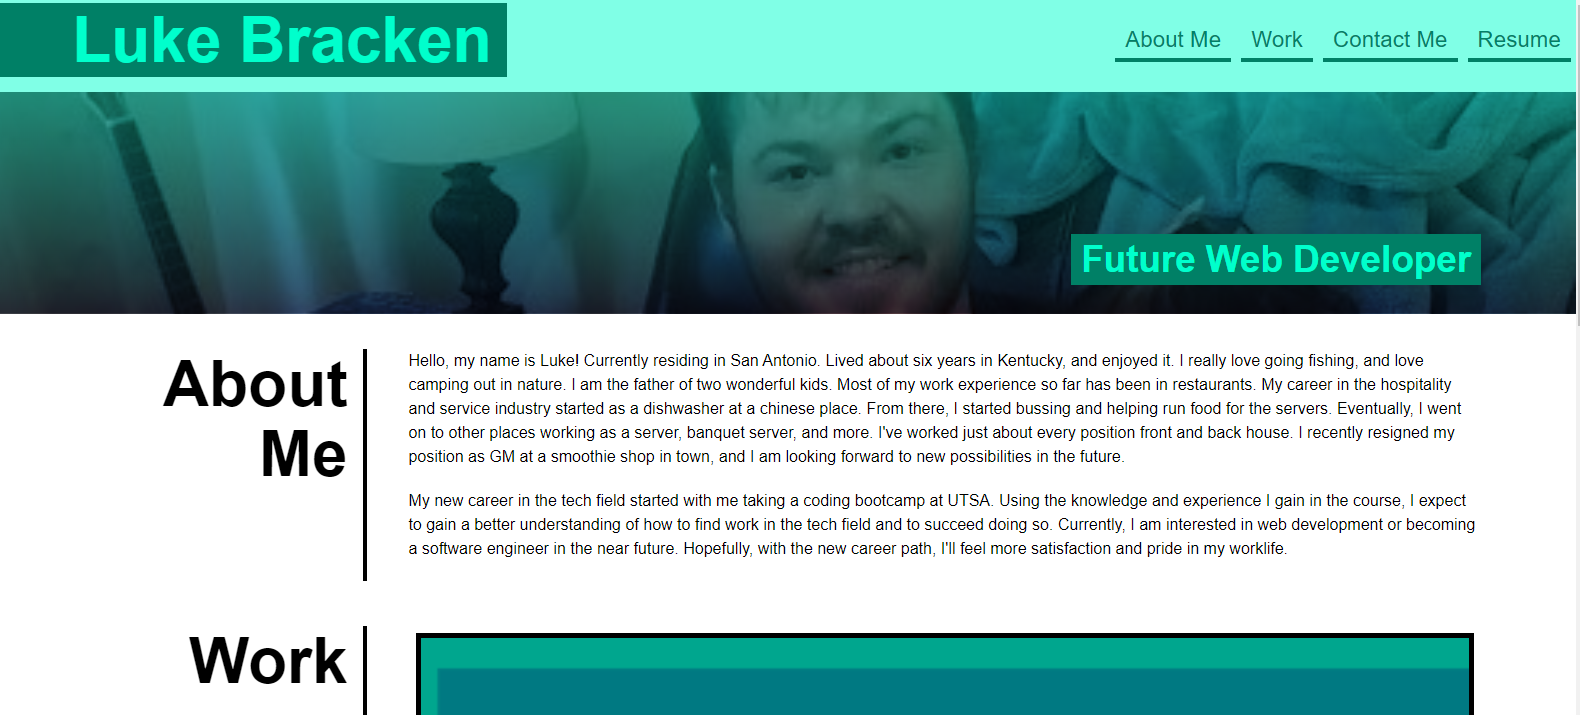
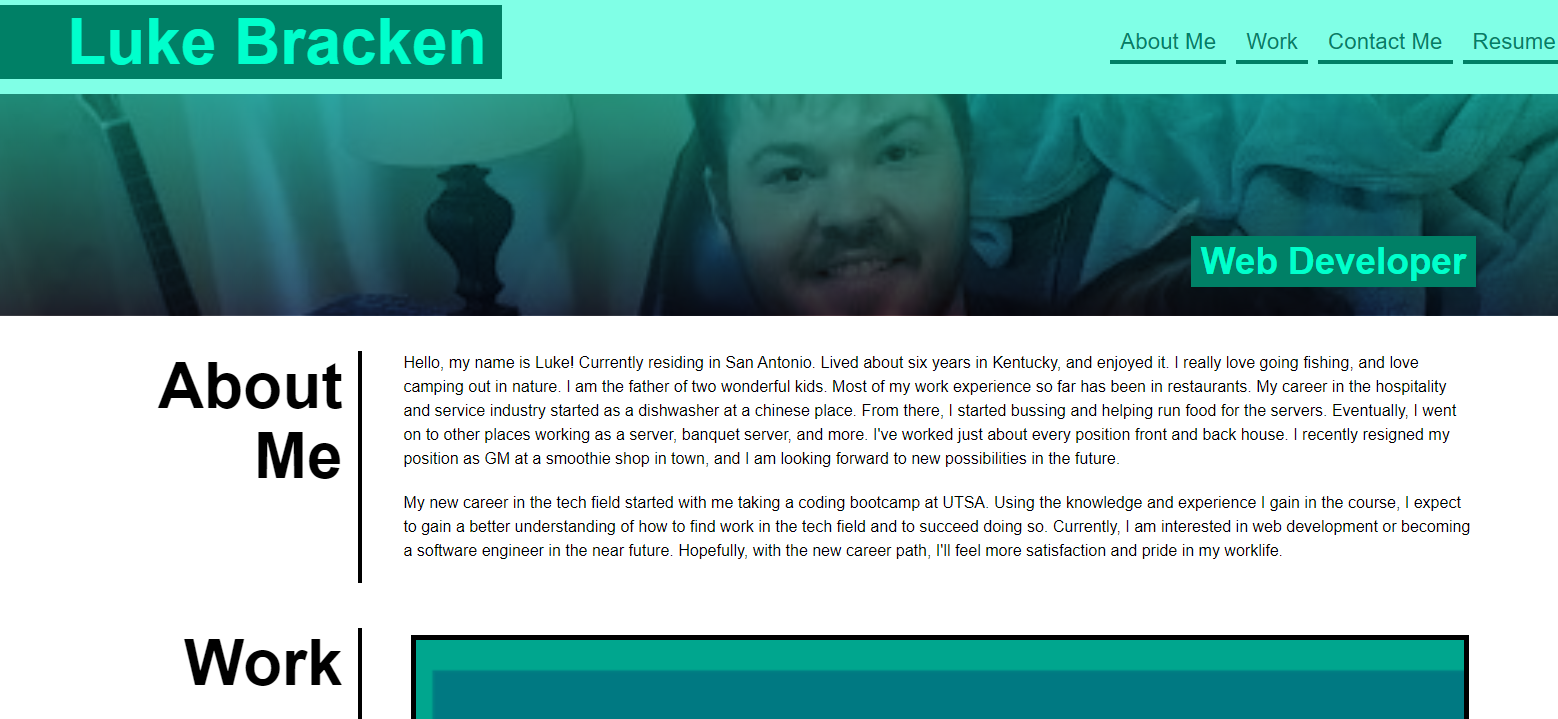
fixed horiseon link, updated README file webpage screenshot

diff --git a/index.html b/index.html
@@ -25,7 +25,7 @@
   <!-- hero banner -->
   <section class="hero-banner">
     <div>
-      <h2>Future Web Developer</h2>
+      <h2>Web Developer</h2>
     </div>
   </section>
 
@@ -57,7 +57,7 @@
       <h2>Work</h2>
       <div class="flex-container">
 
-        <a href="https://brackenluke.github.io/challenge-one/" class="flex-item challenge-one">
+        <a href="https://brackenluke.github.io/horiseon-refractor-practice/" class="flex-item challenge-one">
           <div>
             <h3>challenge-one</h3>
             <span>HTML/CSS Practice</span>
